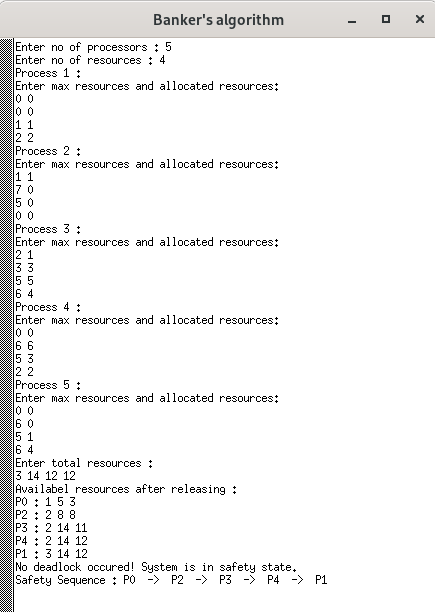
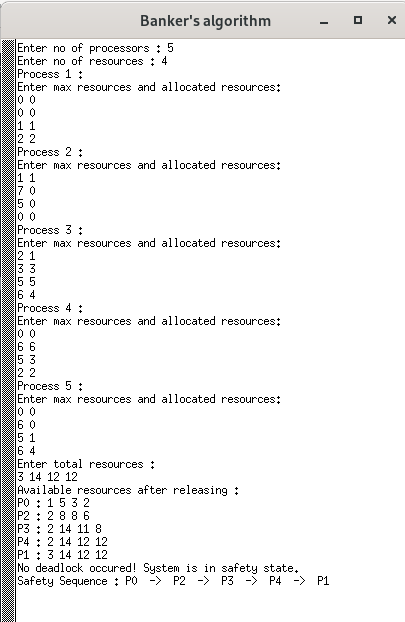
Add files via upload

Changed region(s): [[0.0, 0.0, 1.0, 1.0]]

diff --git a/Deadlock detection/Banker's algorithm.c b/Deadlock detection/Banker's algorithm.c
@@ -2,7 +2,7 @@
 int main()
 {
   int p,r;
-  printf("Enter no of processes : ");
+  printf("Enter no of processors : ");
   scanf("%d",&p);
   printf("Enter no of resources : ");
   scanf("%d",&r);
@@ -41,11 +41,9 @@ int main()
   flag[i]=0;
 }
   int x=0;
-printf("Availabel resources after releasing :\n");
-int flag2=0;
-while(flag2)
-{ 
-  flag2=0;
+printf("Available resources after releasing :\n");
+for(int o=0;o<p;o++)
+{
   for(int i=0;i<p;i++)
   {
     if(flag[i]==0)
@@ -64,14 +62,16 @@ while(flag2)
       if(!flag1)
       {
         for(int k=0;k<r;k++)
-        {   
-            flag2=1;
+        {
             avail[k]=avail[k]+allocated[i][k];
 
         }
-
-          printf("P%d : %d %d %d\n",i,avail[0],avail[1],avail[2]);
-
+          printf("P%d : ",i);
+          for(int h=0;h<r;h++)
+          {
+            printf("%d ",avail[h]);
+          }
+          printf("\n");
         flag[i]=1;
         result[x]=i;
         x=x+1;
@@ -82,7 +82,7 @@ while(flag2)
   int b=0;
   for(int i=0;i<p;i++)
   {
-    if(flag[i]==0)
+    if(flag==0)
     {
       printf("Deadlock occured! System is in safety state.");
       b=1;
